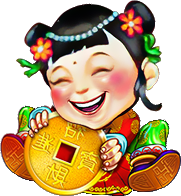
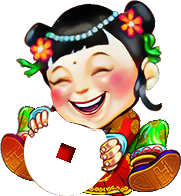
add animation to man1

Changed region(s): [[0.1105, 0.551, 0.6077, 1.0]]

diff --git a/assets/js/main.js b/assets/js/main.js
@@ -12,6 +12,8 @@ import logo1Part2Img from '../images/logo1-part2.png'
 import logo2Part1Img from '../images/logo2-part1.png'
 import logo2Part2Img from '../images/logo2-part2.png'
 import man1Img from '../images/man1.png'
+import man1Part1Img from '../images/man1-part1.png'
+import man1Part2Img from '../images/man1-part2.png'
 import man2Img from '../images/man2.png'
 import titleImg from '../images/title.png'
 import wheelPart1Img from '../images/wheel-part1.png'
@@ -40,7 +42,10 @@ document.querySelector('#app').innerHTML = `
         <img src="${logo2Part2Img}" alt="Logo 2 Part 2" class="logo2-part2">
       </div>
       <div class="title"></div>
-      <div class="man1"></div>
+      <div class="man1">
+        <img src="${man1Part1Img}" alt="Man 1 Part 1" class="man1-part1">
+        <img src="${man1Part2Img}" alt="Man 1 Part 2" class="man1-part2">
+      </div>
       <div class="wheel-container">
         <div class="wheel-wrapper">
           <div class="wheel-part1"></div>
@@ -62,7 +67,10 @@ document.querySelector('#app').innerHTML = `
           <img src="${logo1Part1Img}" alt="Logo 1 Part 1" class="logo1-part1">
           <img src="${logo1Part2Img}" alt="Logo 1 Part 2" class="logo1-part2">
         </div>
-        <div class="box-man1"></div>
+        <div class="box-man1">
+          <img src="${man1Part1Img}" alt="Man 1 Part 1" class="man1-part1">
+          <img src="${man1Part2Img}" alt="Man 1 Part 2" class="man1-part2">
+        </div>
         <div class="spacer"></div>
       </div>
       <div class="box2">
@@ -489,6 +497,12 @@ setTimeout(() => {
     initButtonHandlers();
     // Start wheel-text1 pulsing after appears animation
     startWheelText1Pulsing();
+    // Start logo1-part2 brightness animation
+    startLogo1Part2Brightness();
+    // Start logo2-part2 brightness animation
+    startLogo2Part2Brightness();
+    // Start man1-part2 brightness animation
+    startMan1Part2Brightness();
     
     // Auto start first spin in auto mode after all animations
     if (gameMode === 'auto') {
@@ -620,6 +634,63 @@ function stopPart4Pulsing() {
 // Variable to store wheel-text1 pulsing animation
 let wheelText1PulsingAnimation = null;
 
+// Variable to store logo1-part2 brightness animation
+let logo1Part2BrightnessAnimation = null;
+
+// Variable to store logo2-part2 brightness animation
+let logo2Part2BrightnessAnimation = null;
+
+// Variable to store man1-part2 brightness animation
+let man1Part2BrightnessAnimation = null;
+
+// Function to create wheel-text1 shine effect on wheel stop
+function createWheelText1Shine() {
+  const wheelText1 = document.querySelector('.wheel-text1');
+  if (!wheelText1) return;
+  
+  // Strobe effect with multiple flashes
+  gsap.timeline()
+    // First big flash
+    .to(wheelText1, {
+      filter: "brightness(3) drop-shadow(0 0 25px rgba(255,255,255,1))",
+      duration: 0.08,
+      ease: "power2.out"
+    })
+    .to(wheelText1, {
+      filter: "brightness(1.2) drop-shadow(0 0 5px rgba(255,255,255,0.3))",
+      duration: 0.12,
+      ease: "power2.out"
+    })
+    // Second flash (smaller)
+    .to(wheelText1, {
+      filter: "brightness(2.2) drop-shadow(0 0 18px rgba(255,255,255,0.8))",
+      duration: 0.06,
+      ease: "power2.out"
+    })
+    .to(wheelText1, {
+      filter: "brightness(1.1) drop-shadow(0 0 3px rgba(255,255,255,0.2))",
+      duration: 0.1,
+      ease: "power2.out"
+    })
+    // Third flash (quick)
+    .to(wheelText1, {
+      filter: "brightness(2.8) drop-shadow(0 0 22px rgba(255,255,255,0.9))",
+      duration: 0.05,
+      ease: "power2.out"
+    })
+    .to(wheelText1, {
+      filter: "brightness(1.05) drop-shadow(0 0 2px rgba(255,255,255,0.1))",
+      duration: 0.08,
+      ease: "power2.out"
+    })
+    // Final fade out
+    .to(wheelText1, {
+      filter: "brightness(1) drop-shadow(0 0 0px rgba(255,255,255,0))",
+      duration: 0.5,
+      ease: "power2.out"
+    });
+}
+
 // Start wheel-text1 concentric pulsing animation
 function startWheelText1Pulsing() {
   const wheelText1 = document.querySelector('.wheel-text1');
@@ -654,6 +725,105 @@ function stopWheelText1Pulsing() {
         opacity: 1
       });
     }
+  }
+}
+
+// Start logo1-part2 brightness animation
+function startLogo1Part2Brightness() {
+  const logo1Part2Elements = document.querySelectorAll('.logo1-part2');
+  
+  // Stop existing animation if running
+  if (logo1Part2BrightnessAnimation) {
+    logo1Part2BrightnessAnimation.kill();
+  }
+  
+  // Create infinite brightness pulsing animation
+  logo1Part2BrightnessAnimation = gsap.fromTo(logo1Part2Elements, {
+    filter: "brightness(0.7)"
+  }, {
+    filter: "brightness(1.4)",
+    duration: 1.2,
+    ease: "power2.inOut",
+    yoyo: true,
+    repeat: -1
+  });
+}
+
+// Stop logo1-part2 brightness animation
+function stopLogo1Part2Brightness() {
+  if (logo1Part2BrightnessAnimation) {
+    logo1Part2BrightnessAnimation.kill();
+    logo1Part2BrightnessAnimation = null;
+    
+    // Reset to normal brightness
+    const logo1Part2Elements = document.querySelectorAll('.logo1-part2');
+    gsap.set(logo1Part2Elements, { filter: "brightness(1)" });
+  }
+}
+
+// Start logo2-part2 brightness animation
+function startLogo2Part2Brightness() {
+  const logo2Part2Elements = document.querySelectorAll('.logo2-part2');
+  
+  // Stop existing animation if running
+  if (logo2Part2BrightnessAnimation) {
+    logo2Part2BrightnessAnimation.kill();
+  }
+  
+  // Create infinite brightness pulsing animation
+  logo2Part2BrightnessAnimation = gsap.fromTo(logo2Part2Elements, {
+    filter: "brightness(0.7)"
+  }, {
+    filter: "brightness(1.4)",
+    duration: 1.2,
+    ease: "power2.inOut",
+    yoyo: true,
+    repeat: -1
+  });
+}
+
+// Stop logo2-part2 brightness animation
+function stopLogo2Part2Brightness() {
+  if (logo2Part2BrightnessAnimation) {
+    logo2Part2BrightnessAnimation.kill();
+    logo2Part2BrightnessAnimation = null;
+    
+    // Reset to normal brightness
+    const logo2Part2Elements = document.querySelectorAll('.logo2-part2');
+    gsap.set(logo2Part2Elements, { filter: "brightness(1)" });
+  }
+}
+
+// Start man1-part2 brightness animation
+function startMan1Part2Brightness() {
+  const man1Part2Elements = document.querySelectorAll('.man1-part2');
+  
+  // Stop existing animation if running
+  if (man1Part2BrightnessAnimation) {
+    man1Part2BrightnessAnimation.kill();
+  }
+  
+  // Simple brightness pulsing animation like logos
+  man1Part2BrightnessAnimation = gsap.fromTo(man1Part2Elements, {
+    filter: "brightness(0.7)"
+  }, {
+    filter: "brightness(1.4)",
+    duration: 1.2,
+    ease: "power2.inOut",
+    yoyo: true,
+    repeat: -1
+  });
+}
+
+// Stop man1-part2 brightness animation
+function stopMan1Part2Brightness() {
+  if (man1Part2BrightnessAnimation) {
+    man1Part2BrightnessAnimation.kill();
+    man1Part2BrightnessAnimation = null;
+    
+    // Reset to normal brightness
+    const man1Part2Elements = document.querySelectorAll('.man1-part2');
+    gsap.set(man1Part2Elements, { filter: "brightness(1)" });
   }
 }
 
@@ -695,8 +865,13 @@ function spinWheel(targetSector) {
         .to(part4, { duration: 0.1, scale: 1, ease: "power2.out" })
         .to([part5, part6], { duration: 0.5, scale: 0.30, ease: "back.out(1.5)" }, 0)
         .call(() => {
-          // Start wheel-text1 pulsing animation after wheel stops
-          startWheelText1Pulsing();
+          // Create shine effect when wheel stops
+          createWheelText1Shine();
+          
+          // Start wheel-text1 pulsing animation after wheel stops and shine effect
+          setTimeout(() => {
+            startWheelText1Pulsing();
+          }, 1000); // Wait for shine effect to complete (1.0s)
           
           // Auto spin next wheel if in auto mode
           if (gameMode === 'auto') {

diff --git a/assets/css/style.css b/assets/css/style.css
@@ -181,25 +181,40 @@ body {
 }
 
 .man1, .man2, .box-man1, .box-man2 {
-  background-size: contain;
-  background-position: center;
-  background-repeat: no-repeat;
   width: var(--man-width, 105px);
   height: var(--man-height, 150px);
   display: flex;
   align-items: center;
   justify-content: center;
+  position: relative;
 }
 
 .box-man1, .box-man2 {
   opacity: 0;
 }
 
-.man1, .box-man1 {
-  background-image: url('../images/man1.png');
+.man1 img, .box-man1 img {
+  width: 100%;
+  height: auto;
+  display: block;
+}
+
+.man1-part1 {
+  position: absolute;
+  top: 0;
+  left: 0;
+}
+
+.man1-part2 {
+  position: absolute;
+  top: 0;
+  left: 0;
 }
 
 .man2, .box-man2 {
+  background-size: contain;
+  background-position: center;
+  background-repeat: no-repeat;
   background-image: url('../images/man2.png');
 }
 
